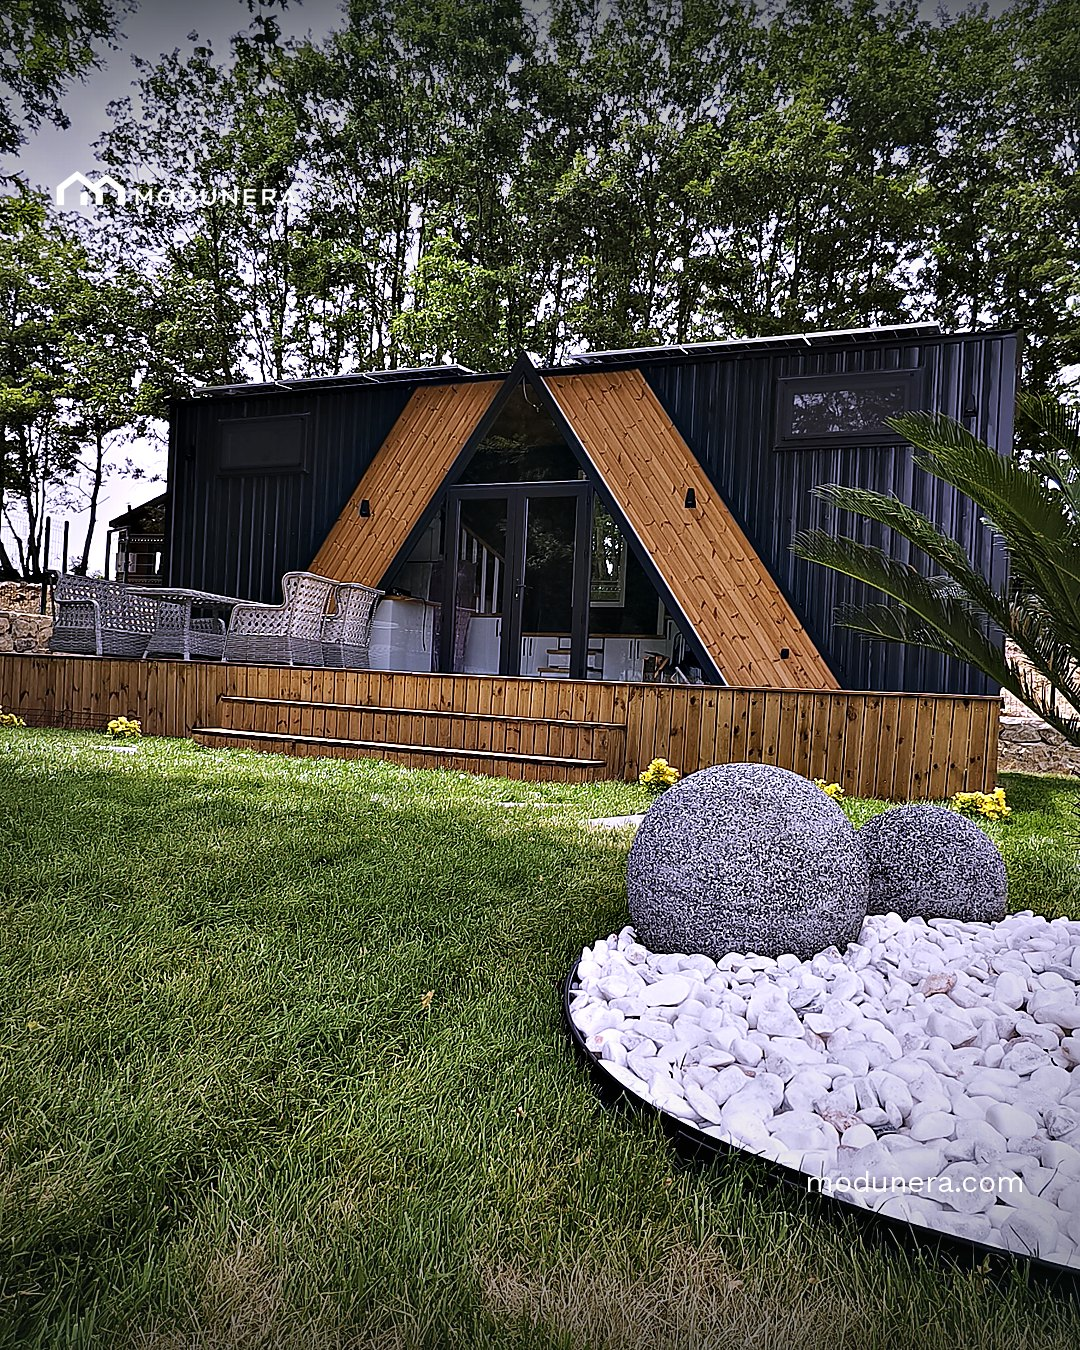
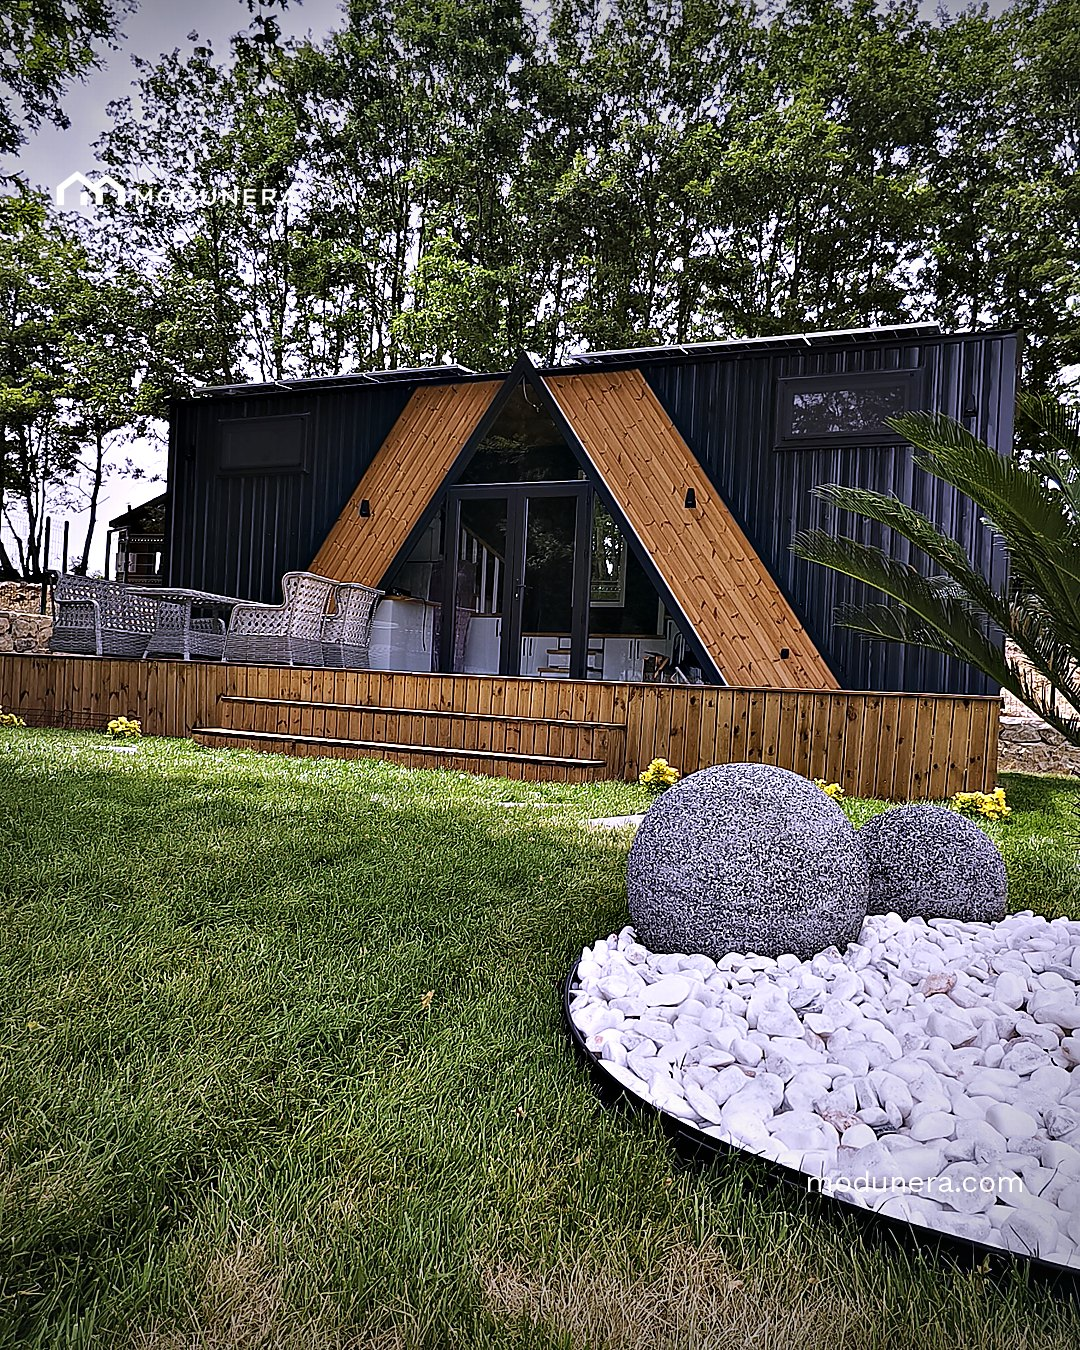
social: measure whether a photograph needs a gradient before adding one
Every frame carried a head scrim and a foot scrim because the renderer applied
them unconditionally. On a dark photograph that is not protection, it is a
flattening — the night frame was being darkened at both ends to help type that
was already perfectly legible.

The renderer now samples the brightness behind the lockup and behind the caption
before it lays anything down. White on a region at or below 86/255 clears 4.5:1
unaided, so that region gets nothing; above it the scrim ramps with the deficit
only. Of the eight photographs, three need no head scrim and the night frame
needs neither end. The bright workshop wall gets 0.73 and the white interior 0.85,
which is what those frames actually need.

The frosted foot is now conditional too: it requires a foot that is both bright
and busy. Grass, dark cladding and the night read better sharp, and blurring them
would be the artificial look the brief rules out.

Sharpening is derived rather than typed. The amount follows how far each frame was
actually reduced into the 4:5 box — a source downscaled 1.7x lost more edge than
one downscaled 1.3x and can take more back — so swapping a photograph brings its
own sharpening with it instead of inheriting a number meant for the last one. The
night frame keeps its exemption.

Every value each frame received is recorded in grid-manifest.json and tabulated in
brand-rules.md, so the treatment can be argued with rather than guessed at.
[…]

Changed region(s): [[0.0, 0.0, 1.0, 0.1244], [0.0, 0.9022, 1.0, 1.0], [0.9778, 0.0933, 1.0, 0.1244]]

diff --git a/tools/social/build_instagram_grid.py b/tools/social/build_instagram_grid.py
@@ -245,6 +245,26 @@ def cover(im: Image.Image, w: int, h: int, focus: float = 0.5) -> Image.Image:
     return resized.crop((0, top, w, top + h))
 
 
+
+def _luma(im: Image.Image, box) -> tuple[float, float]:
+    """Mean brightness and standard deviation of a region, 0-255."""
+    st = ImageStat.Stat(im.crop(box).convert("L"))
+    return st.mean[0], st.stddev[0]
+
+
+def scrim_need(luma: float, floor: float = 86.0, span: float = 105.0) -> float:
+    """How much darkening this region actually needs for white type, 0 to 1.
+
+    White on a region already at or below `floor` clears 4.5:1 on its own, so it
+    gets nothing. Above that the need ramps with the deficit. This is why not every
+    frame carries a gradient: the night shot and the dark cladding do not need one,
+    and putting one there only flattens a photograph that was already right.
+    """
+    if luma <= floor:
+        return 0.0
+    return min(1.0, (luma - floor) / span)
+
+
 def head_scrim(im: Image.Image, height_ratio: float = 0.24, strength: int = 140) -> Image.Image:
     """A soft darkening at the head only, so the white logo reads on a bright sky.
 
@@ -314,28 +334,53 @@ def tracked(draw: ImageDraw.ImageDraw, xy, text: str, f, fill, tracking: int = 0
 def photo_post(source: Path, title: str | None, focus: float, look: dict | None = None) -> Image.Image:
     im = Image.open(source).convert("RGB")
     im, band = strip_camera_watermark(im)
+    src_w, src_h = im.size
     canvas = cover(im, POST_W, POST_H, focus)
+
     look = dict(look or {})
-    sharp = look.pop("sharp", 1.0)
-    micro = look.pop("micro", 1.0)
+    noisy = look.pop("noisy", False)
     canvas = grade(canvas, **look)
-    # after the resize and the grade, before anything is laid over it
-    canvas = sharpen(canvas, amount=sharp, micro=micro)
-    canvas = head_scrim(canvas)
+
+    # Sharpening follows how far the frame was actually reduced rather than a
+    # number typed per photograph: a frame downscaled 1.7x lost more edge than one
+    # downscaled 1.3x and can take more back. A high-ISO frame is exempt, because
+    # sharpening grain is still sharpening grain.
+    reduction = max(src_w / POST_W, src_h / POST_H)
+    amount = 0.0 if noisy else min(1.20, 0.72 + 0.28 * reduction)
+    micro = 0.35 if noisy else min(1.0, 0.55 + 0.28 * reduction)
+    canvas = sharpen(canvas, amount=(0.55 if noisy else amount), micro=micro)
+
+    # --- gradients only where the photograph needs them ----------------------
+    logo_luma, _ = _luma(canvas, (MARGIN, SAFE_TOP + 36, MARGIN + 246, SAFE_TOP + 106))
+    head_need = scrim_need(logo_luma)
+    if head_need > 0.04:
+        canvas = head_scrim(canvas, height_ratio=0.24, strength=int(150 * head_need))
+
+    foot_box = (0, POST_H - SAFE_BOTTOM - 170, POST_W, POST_H - SAFE_BOTTOM)
+    foot_luma, foot_var = _luma(canvas, foot_box)
+    foot_need = scrim_need(foot_luma, floor=78.0)
+
     if title:
-        # blur first, then darken: a blurred foot needs far less darkening, which
-        # is how the caption reads without a black bar across the picture
-        canvas = frosted_foot(canvas)
-        canvas = foot_scrim(canvas, height_ratio=0.34, strength=150)
-    else:
-        canvas = foot_scrim(canvas, height_ratio=0.26, strength=118)
+        # A blurred foot is for a busy one. A calm foot — grass, a dark wall, the
+        # night — reads better sharp, and blurring it would be the artificial look
+        # the brief rules out.
+        if foot_need > 0.15 and foot_var > 44:
+            canvas = frosted_foot(canvas, height_ratio=0.28)
+            foot_need *= 0.72          # blur already did most of the separating
+        if foot_need > 0.04:
+            canvas = foot_scrim(canvas, height_ratio=0.34, strength=int(190 * foot_need))
+    elif foot_need > 0.04:
+        canvas = foot_scrim(canvas, height_ratio=0.26, strength=int(150 * foot_need))
+
     draw = ImageDraw.Draw(canvas)
     place_logo(canvas, light=True)
     if title:
-        f = F_TITLE(37)
-        tracked(draw, (MARGIN, POST_H - SAFE_BOTTOM - 106), title, f, (255, 255, 255), tracking=3)
+        tracked(draw, (MARGIN, POST_H - SAFE_BOTTOM - 106), title, F_TITLE(37),
+                (255, 255, 255), tracking=3)
     place_domain(draw, light=True)
     canvas.info["watermark_band_px"] = band
+    canvas.info["head_scrim"] = round(head_need, 2)
+    canvas.info["foot_scrim"] = round(foot_need, 2)
     return canvas
 
 
@@ -370,30 +415,30 @@ def card_post(lines: list[str], ground: tuple[int, int, int], light_type: bool,
 # of strongest frames. Recorded here rather than silently swapped.
 POSTS = [
     dict(kind="photo", src="IMG_20250519_182528.jpg", title=None, focus=0.5,
-         look=dict(warmth=1.02, lift=0.03, contrast=1.16, saturation=0.94, sharp=1.15, micro=1.0),
+         look=dict(warmth=1.02, lift=0.03, contrast=1.16, saturation=0.94),
          note="substituted for IMG_20250519_182509.jpg, which would not transfer"),
     dict(kind="cream", lines=["DESIGN", "YOUR", "NATURE"], size=96),
     dict(kind="photo", src="20231214_121220.jpg", title="BUILT WITH PURPOSE", focus=0.24,
-         look=dict(warmth=0.99, lift=0.05, contrast=1.20, saturation=0.88, sharp=1.10, micro=0.9),
+         look=dict(warmth=0.99, lift=0.05, contrast=1.20, saturation=0.88),
          note="replaced IMG_20250618_094223.jpg — scaffolding dominated the frame"),
     dict(kind="forest", lines=["TINY HOUSE", "MODULAR HOME", "STEEL STRUCTURE", "CUSTOM FURNITURE"], size=62),
     dict(kind="photo", src="IMG_20250807_131955.jpg", title="MADE AROUND YOU", focus=0.42,
-         look=dict(warmth=1.01, lift=0.02, contrast=1.14, saturation=0.93, sharp=1.05, micro=0.85)),
+         look=dict(warmth=1.01, lift=0.02, contrast=1.14, saturation=0.93)),
     dict(kind="photo", src="IMG_20250913_193621.jpg", title="HOME, AFTER DARK", focus=0.45,
-         look=dict(warmth=1.04, lift=0.06, contrast=1.10, saturation=0.98, sharp=0.55, micro=0.35)),
+         look=dict(warmth=1.04, lift=0.06, contrast=1.10, saturation=0.98, noisy=True)),
     dict(kind="photo", src="IMG_20250913_104632.jpg", title="FROM TÜRKİYE TO EUROPE", focus=0.52,
-         look=dict(warmth=1.01, lift=0.02, contrast=1.18, saturation=0.90, sharp=1.15, micro=1.0)),
+         look=dict(warmth=1.01, lift=0.02, contrast=1.18, saturation=0.90)),
     dict(kind="cream", lines=["DELIVERY", "ACROSS", "DE · NL · DK", "LU · CH"], size=72),
     dict(kind="photo", src="20240227_113020.jpg", title="SPACE TO BREATHE", focus=0.66,
-         look=dict(warmth=1.02, lift=0.04, contrast=1.15, saturation=0.92, sharp=1.05, micro=0.85),
+         look=dict(warmth=1.02, lift=0.04, contrast=1.15, saturation=0.92),
          note="replaced IMG_20260206_161331.jpg — an unfinished grey terrace"),
     dict(kind="photo", src="IMG_20250913_183727.jpg", title="FROM FRAME TO FINISH", focus=0.5,
-         look=dict(warmth=1.01, lift=0.03, contrast=1.17, saturation=0.91, sharp=1.15, micro=1.0),
+         look=dict(warmth=1.01, lift=0.03, contrast=1.17, saturation=0.91),
          note="replaced 20231207_103831.jpg — dim workshop, awkward pose. This frame "
               "carries the caption literally: the steel frame in front, the finished house behind"),
     dict(kind="forest", lines=["MINIMAL.", "MODERN.", "NATURAL."], size=96),
     dict(kind="photo", src="IMG_20250525_142713.jpg", title=None, focus=0.42,
-         look=dict(warmth=1.02, lift=0.03, contrast=1.15, saturation=0.93, sharp=1.10, micro=0.95)),
+         look=dict(warmth=1.02, lift=0.03, contrast=1.15, saturation=0.93)),
 ]
 
 
@@ -406,7 +451,8 @@ def main() -> None:
         if spec["kind"] == "photo":
             img = photo_post(SELECTED / spec["src"], spec["title"], spec["focus"], spec.get("look"))
             entry = {"post": i, "type": "photograph", "source": spec["src"],
-                     "title": spec["title"], "watermark_band_removed_px": img.info.get("watermark_band_px", 0)}
+                     "title": spec["title"], "watermark_band_removed_px": img.info.get("watermark_band_px", 0),
+                     "head_scrim": img.info.get("head_scrim"), "foot_scrim": img.info.get("foot_scrim")}
             if spec.get("note"):
                 entry["note"] = spec["note"]
         elif spec["kind"] == "cream":

diff --git a/social/instagram/02-design-system/brand-rules.md b/social/instagram/02-design-system/brand-rules.md
@@ -204,8 +204,13 @@ Two radii, because they do different jobs:
 | Output sharpening | 1.1 px | 58–120% | Puts the edge back on cladding seams, window frames, deck boards, stair nosings |
 
 Both use a threshold (4 and 3), so flat sky and shadow are left alone and sensor
-noise is not amplified. The night frame runs at roughly half — `sharp=0.55,
-micro=0.35` — because sharpening a high-ISO frame sharpens its grain.
+noise is not amplified.
+
+The amount is **derived from how far the frame was actually reduced**, not typed
+per photograph: a frame downscaled 1.7× lost more edge than one downscaled 1.3×
+and can take more back. Swap a photograph and its sharpening follows. The only
+exemption is `noisy=True` on the night frame, because sharpening grain is still
+sharpening grain.
 
 Order matters and is fixed: crop → grade → **sharpen** → scrims → type. Sharpening
 before the scrims means the frosted foot stays soft and the type stays clean.
@@ -216,10 +221,36 @@ unsharp above is micro-contrast, not HDR: it has no local tone mapping and, at
 radius 34 and under 30%, cannot produce the halo that gives HDR away. Those other
 moves are what make a manufacturer's feed look like a stock library.
 
+### Gradients are measured, not applied
+
+Before any scrim, the renderer samples the brightness of the region behind the
+logo and the region behind the caption. White type on a region already at or
+below 86/255 clears 4.5:1 on its own, so that region gets **nothing**. Above it,
+the scrim ramps with the deficit only.
+
+What the twelve actually received:
+
+| Post | Head | Foot | Why |
+|---|---|---|---|
+| 1 | none | 0.62 | Dark cladding behind the lockup; bright gravel at the foot |
+| 3 | 0.73 | 0.13 | Bright workshop wall |
+| 5 | 0.38 | 0.18 | White kitchen |
+| 6 | none | none | The night frame needs no help at either end |
+| 7 | 0.47 | 1.00 | Open sky, and a busy street at the foot |
+| 9 | 0.85 | 0.40 | White interior wall — the brightest in the set |
+| 10 | none | 0.38 | Dark cladding |
+| 12 | 0.43 | 0.40 | Sky through trees |
+
+Three of eight need no head scrim and one needs neither. Putting a gradient on a
+photograph that was already right only flattens it.
+
 ### The frosted foot
 
-Where a caption sits, the bottom 30% of the photograph is **graduated Gaussian
-blur** rather than a heavier dark bar. A busy foot — decking planks, gravel, a
+Where a caption sits **on a busy, bright foot**, the bottom 28% is **graduated
+Gaussian blur** rather than a heavier dark bar. A calm foot — grass, a dark wall,
+the night — reads better sharp, so it is left sharp: the renderer requires both a
+scrim need above 0.15 and a local standard deviation above 44 before it blurs
+anything. A busy foot — decking planks, gravel, a
 steel frame — competes with type no matter how dark a scrim is. Blurring it lets
 the caption sit *on* the photograph instead of on a panel laid over it, and keeps
 the picture's own colour and light. The blur ramps to zero so there is no seam,
